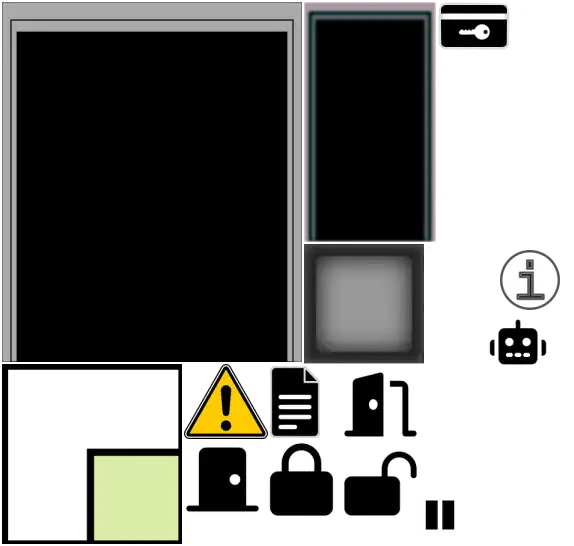
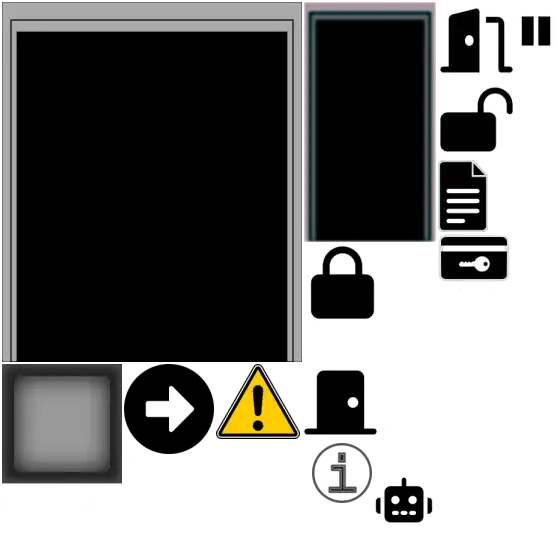
feat: decor carpet--0 -> arrow--0 and used in 301

diff --git a/npc-cli/world/Floor.jsx b/npc-cli/world/Floor.jsx
@@ -121,16 +121,16 @@ export default function Floor(props) {
 
       // decals from gm.decor
       // 🚧 test decals -> real ones
-      // const { decor } = w.geomorphs.sheet;
-      // const decals = gm.decor.filter(x => x.type === 'decal');
-      // for (const decal of decals) {
-      //   const rect = decor[decal.meta.img];
-      //   // drawPolygons(ct, [Poly.fromRect(decal.bounds2d)], ['#f00', null]);
-      //   ct.save();
-      //   ct.transform(...decal.transform);
-      //   ct.drawImage(w.decorImgs[rect.sheetId], rect.x, rect.y, rect.width, rect.height, 0, 0, 1, 1);
-      //   ct.restore();
-      // }
+      const { decor } = w.geomorphs.sheet;
+      const decals = gm.decor.filter(x => x.type === 'decal');
+      for (const decal of decals) {
+        const rect = decor[decal.meta.img];
+        // drawPolygons(ct, [Poly.fromRect(decal.bounds2d)], ['#f00', null]);
+        ct.save();
+        ct.transform(...decal.transform);
+        ct.drawImage(w.decorImgs[rect.sheetId], rect.x, rect.y, rect.width, rect.height, 0, 0, 1, 1);
+        ct.restore();
+      }
 
     },
     positionInstances() {

diff --git a/npc-cli/service/const.js b/npc-cli/service/const.js
@@ -195,7 +195,7 @@ export const doorSwitchDecorImgKey = /** @type {const} */ ('icon--square');
 
 /** Aligned to media/decor/{key}.svg */
 export const fromDecorImgKey = /** @type {const} */ ({// 🔔 must extend when adding new decor
-  'carpet--0': true,
+  'arrow--0': true,
   'colour--white': true,
   'door--hull': true,
   'door--standard': true,
